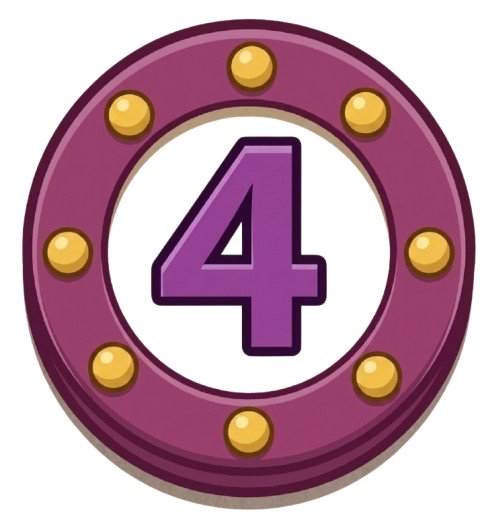
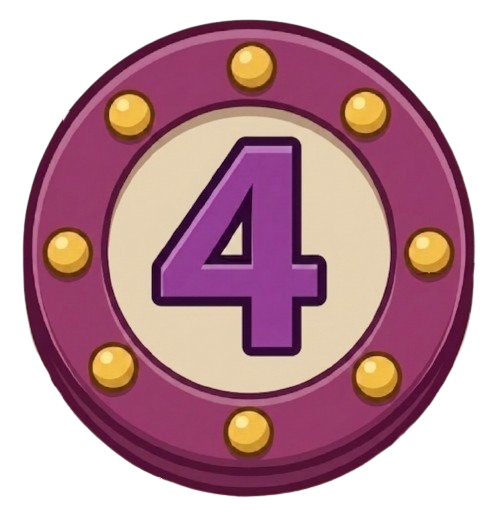
fix: leaderboard

diff --git a/src/components/LeaderBord.jsx b/src/components/LeaderBord.jsx
@@ -1,8 +1,9 @@
 import { useState, useEffect } from "react";
 
-
 export default function LeaderBoard() {
     const [isBling, setIsBling] = useState(true);
+    const [scores, setScores] = useState([]);
+
     useEffect(() => {
         const interval = setInterval(() => {
             setIsBling((prev) => !prev);
@@ -10,58 +11,57 @@ export default function LeaderBoard() {
         return () => clearInterval(interval);
     }, []);
 
+    useEffect(() => {
+        fetch("https://flipper-backend-app.azurewebsites.net/api/scores")
+            .then((res) => res.json())
+            .then((data) => {
+                if (data.status === "success") {
+                    setScores(data.data);
+                }
+            console.log(data)
+            });
+    }, []);
+
+    const images = [
+        ["leaderboard1", "placement1"],
+        ["leaderboard2", "placement"],
+        ["leaderboard3", "placement"],
+        ["leaderboard4", "placement"],
+        ["leaderboard5", "placement"],
+    ];
+
     return (
-    <div className="leaderboard">
-        <div className="placement">
-            <img
-                src={isBling
-                    ? "/assets/IntroScreen/leaderboard1-bling.png"
-                    : "/assets/IntroScreen/leaderboard1.png"
-                }
-                alt="leaderboard"
-                className="leaderboard-piece"
-                />
-            <p>test</p>
-        </div>
-        <div className="placement">
-            <img
-                src={isBling
-                    ? "/assets/IntroScreen/leaderboard2-bling.png"
-                    : "/assets/IntroScreen/leaderboard2.png"
-                }
-                alt="leaderboard"
-                className="leaderboard-piece"
-                />
-            <p>test</p>
-        </div>
-        <div className="placement">
-            <img
-                src="/assets/IntroScreen/leaderboard3.png"
-                alt="leaderboard"
-                className="leaderboard-piece"
-            />
-            <p>test</p>
-        </div>
-        <div className="placement">
-            <img
-                src="/assets/IntroScreen/leaderboard4.png"
-                alt="leaderboard"
-                className="leaderboard-piece"
-            />
-            <p>test</p>
-        </div>
-        <div className="placement">
-            <img
-                src="/assets/IntroScreen/leaderboard5.png"
-                alt="leaderboard"
-                className="leaderboard-piece"
-            />
-            <p>test</p>
-        </div>
+        <div className="leaderboard">
+            {images.map(([name, className], index) => (
+                <div key={index} className={className}>
+                    <img
+                        src={
+                            isBling
+                                ? `/assets/IntroScreen/${name}-bling.png`
+                                : `/assets/IntroScreen/${name}.png`
+                        }
+                        alt="leaderboard"
+                        className="leaderboard-piece"
+                    />
 
-    </div>
-     
-    
-  );
+                    <div className="score-row">
+                        <img
+                            src="/assets/IntroScreen/testChalice.png"
+                            alt="player"
+                            className="player-avatar"
+                        />
+
+                        <div className="score-value">
+                            <span className="player-name">
+                                {scores[index]?.player_name || "Loading..."}
+                            </span>
+                            <span className="player-score">
+                                {scores[index]?.score || ""}
+                            </span>
+                        </div>
+                    </div>
+                </div>
+            ))}
+        </div>
+    );
 }
-

diff --git a/src/style/IntroScreen.css b/src/style/IntroScreen.css
@@ -35,26 +35,20 @@
 
 .leaderboard {
   position: absolute;
-  top: 35%;
-  right: 1%;
+  top: 37%;
+  right: 2%;
   display: flex;
   flex-direction: column;
   z-index: 5;
-  background-color: #E6D5BA;
-  border: 3px solid rgb(0, 0, 0);
   width: 30%;
 }
-.leaderboard-piece{
-  width: 15%;
-  padding-left: 5%;
-  padding: 1% 5%;
-}
-.placement{
-  font-family: "Bitter", serif;
-  font-size: 25px;
-  display: flex;
-  flex-direction: row;
-  align-items: center;
+
+.leaderboard-piece {
+  width: 100px;
+  height: 80px; 
+  object-fit: contain;
+  display: block;
+  margin-bottom: 4%;
 }
 
 .press-any-button {
@@ -76,4 +70,62 @@
   0%   { opacity: 1; }
   75%  { opacity: 1; }
   100% { opacity: 0; }
+}
+
+.placement,
+.placement1 {
+  display: flex;
+  flex-direction: row;
+  align-items: center;
+}
+
+.score-row {
+  display: flex;
+  align-items: center;
+  width: 100%;
+  position: relative;
+  
+  background-image: url("/assets/IntroScreen/testbg1.png");
+  background-size: cover; 
+  background-repeat: no-repeat;
+  background-position: center;
+
+  font-family: "Josefin Sans", sans-serif;
+  margin-bottom: 2%;
+}
+
+.player-avatar {
+  width: 69px; 
+  height: 66px; 
+  object-fit: cover;
+  flex: 0 0 auto;
+  margin-left: 5px;
+}
+
+
+.score-value {
+  flex: 1;
+  display: flex;
+  flex-direction: column;
+  align-items: center;
+  justify-content: center;
+}
+
+.player-name {
+  font-size: 17px;
+}
+
+.player-score {
+  font-size: 24px;
+  font-weight: 500;
+}
+
+.placement1 .player-name {
+  font-size: 25px;
+  font-weight: 700;
+}
+
+.placement1 .player-score {
+  font-size: 30px;
+  font-weight: 900;
 }

diff --git a/public/index.html b/public/index.html
@@ -10,3 +10,7 @@
 <link rel="preconnect" href="https://fonts.googleapis.com">
 <link rel="preconnect" href="https://fonts.gstatic.com" crossorigin>
 <link href="https://fonts.googleapis.com/css2?family=Noto+Sans+Cham:wght@100..900&display=swap" rel="stylesheet">
+
+<link rel="preconnect" href="https://fonts.googleapis.com">
+<link rel="preconnect" href="https://fonts.gstatic.com" crossorigin>
+<link href="https://fonts.googleapis.com/css2?family=Josefin+Sans:ital,wght@0,100..700;1,100..700&display=swap" rel="stylesheet">
